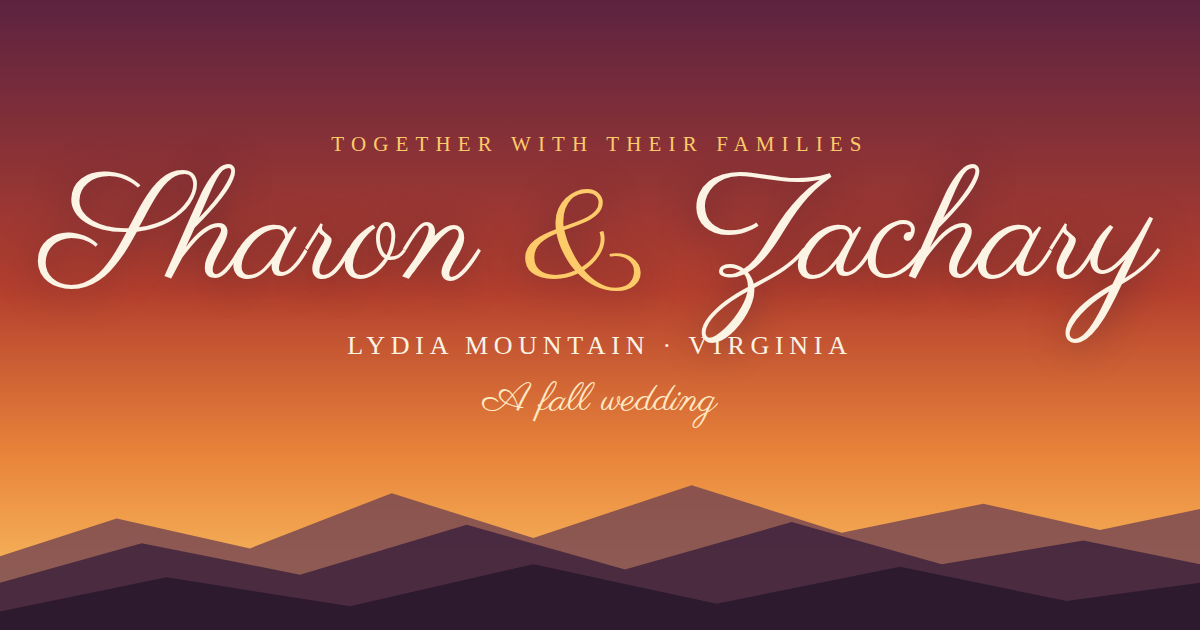
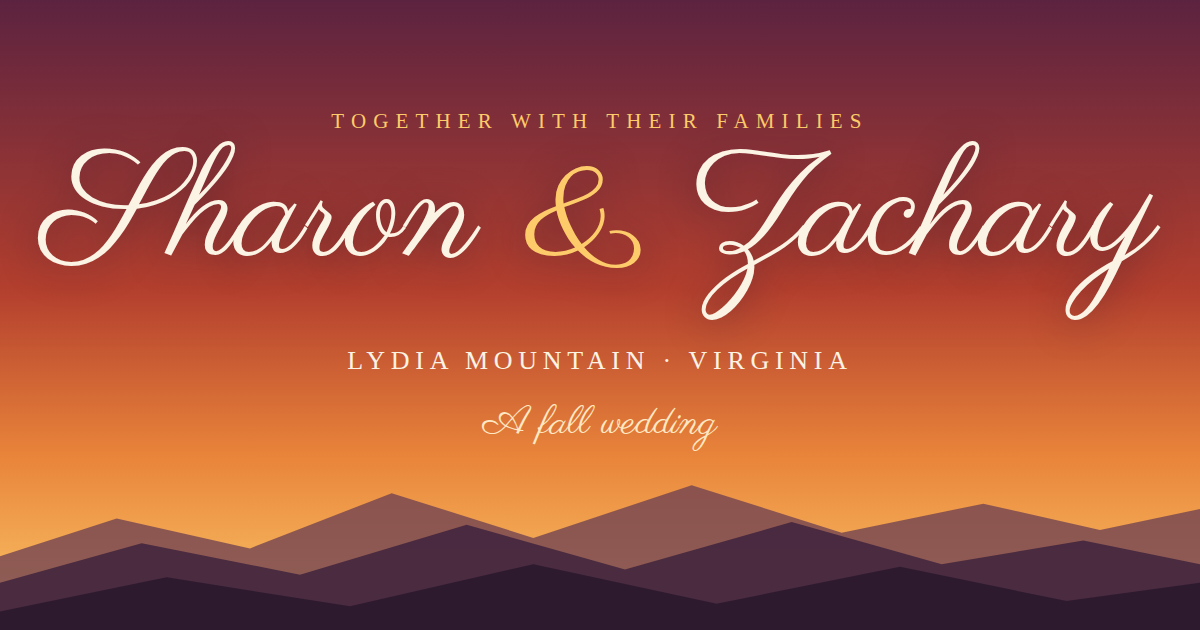
Lower venue and date lines clear of the Parisienne Z swash
More space under the names on the share card and the site hero so
'Lydia Mountain - Virginia' and 'A fall wedding' no longer collide
with the script descenders.

Claude-Session: https://claude.ai/code/session_01WqjH3R6GH6qaLqAiJoSUK4

Changed region(s): [[0.2775, 0.181, 0.9867, 0.6937], [0.0308, 0.2111, 0.4008, 0.4524]]

diff --git a/site/index.html b/site/index.html
@@ -249,7 +249,7 @@
     margin: 0.1em 0;
   }
   .hero-sub {
-    margin-top: 1.8rem;
+    margin-top: 2.5rem;
     font-size: 1.02rem;
     letter-spacing: 0.12em;
     text-transform: uppercase;
